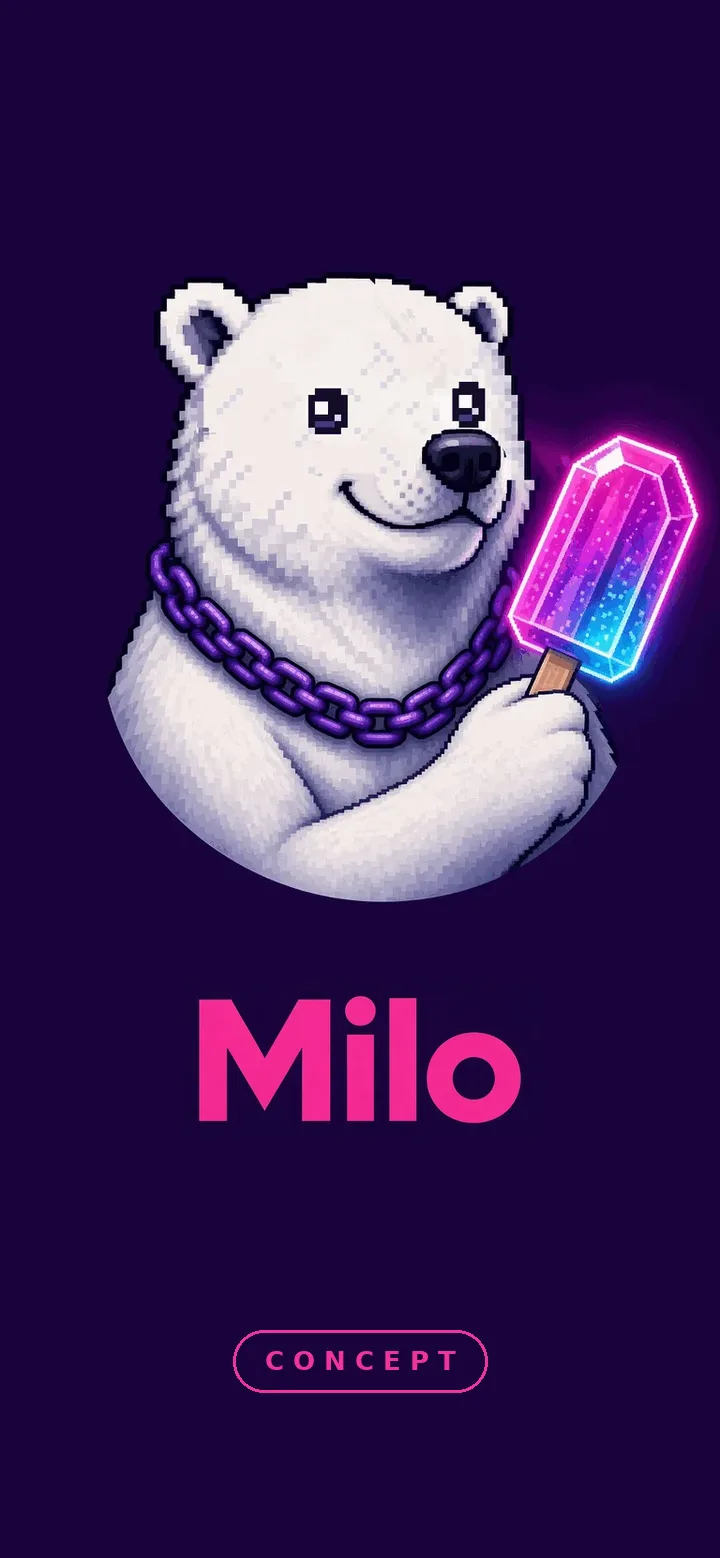
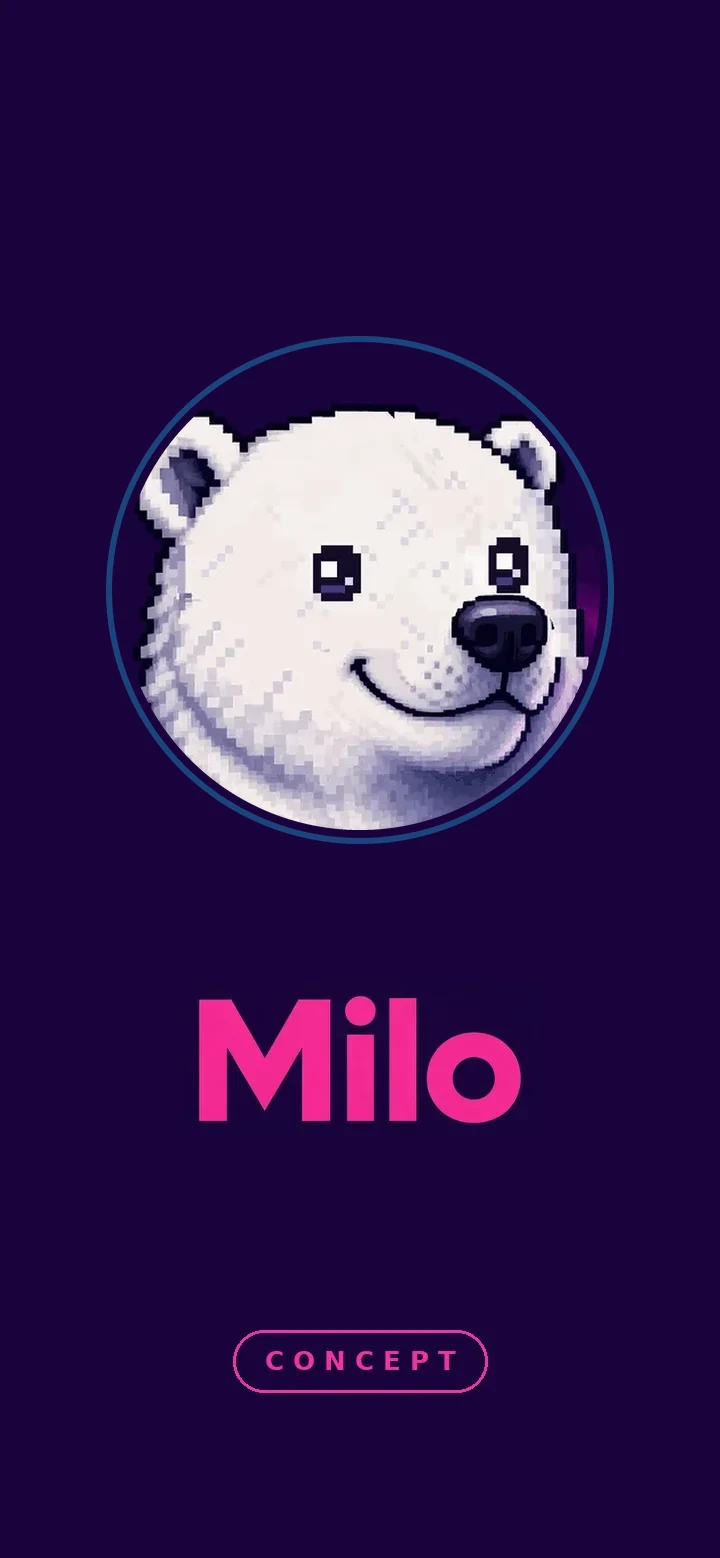
Lift Concept Lab: method strip, card details, chain-free Milo
Claude-Session: https://claude.ai/code/session_01NYMEjb3suz5Xdw8cPuvfsd

Changed region(s): [[0.1222, 0.154, 1.0, 0.5854]]

diff --git a/work/concepts.html b/work/concepts.html
@@ -21,7 +21,8 @@
 <link href="https://fonts.googleapis.com/css2?family=Bricolage+Grotesque:opsz,wght@12..96,500..800&family=Instrument+Sans:wght@400;500;600&display=swap" rel="stylesheet">
 <!-- Hand-built page (not generated by work/_build.py), 8 Nov 2026. Studio palette and type from the homepage.
      Concept Lab groups the three concept designs (EZRA, Milo, R&K). Each card opens that concept's own page.
-     Card images: assets/studio/concepts/*.webp, built from each brand's own logo files on its splash colours. -->
+     Card images: assets/studio/concepts/*.webp, built from each brand's own logo files on its splash colours.
+     milo.webp re-composed 8 Nov 2026 with the chain-free, shades-free face crop (Milo has no chain and no sunglasses). -->
 <style>
 *,*::before,*::after{box-sizing:border-box;margin:0;padding:0}
 :root{--bg:#000;--ink:#f6f4ff;--ink-2:rgba(236,232,255,.76);--ink-3:rgba(236,232,255,.56);
@@ -51,7 +52,23 @@ h1,h2,h3{font-family:var(--font-d);font-weight:800;letter-spacing:-.04em;line-he
 .card{display:flex;flex-direction:column;background:var(--panel);border:1px solid var(--line);border-radius:18px;overflow:hidden;transition:transform .35s var(--ease),border-color .25s,box-shadow .35s}
 .card:hover,.card:focus-visible{transform:translateY(-4px);border-color:rgba(176,124,255,.5);box-shadow:0 22px 50px -24px var(--glow)}
 .shot{position:relative;aspect-ratio:4/5;overflow:hidden;background:var(--sp)}
-.shot img{position:absolute;left:0;width:100%;height:auto;top:50%;transform:translateY(-44.9%)}
+.shot img{position:absolute;left:0;width:100%;height:auto;top:50%;transform:translateY(-44.9%);transition:transform .9s var(--ease)}
+.card:hover .shot img{transform:translateY(-44.9%) scale(1.04)}
+.shot::after{content:"";position:absolute;inset:0;background:linear-gradient(180deg,transparent 70%,rgba(0,0,0,.35));pointer-events:none}
+.inside{display:flex;flex-wrap:wrap;gap:6px;margin-top:2px}
+.inside span{font:500 12.5px var(--font-b);color:var(--ink-3);border:1px solid var(--line);border-radius:6px;padding:3px 8px}
+.how{display:grid;grid-template-columns:repeat(3,minmax(0,1fr));gap:1px;margin-top:40px;border:1px solid var(--line);border-radius:14px;overflow:hidden;background:var(--line)}
+.how div{background:#08050f;padding:18px 20px}
+.how b{display:block;font:700 15px var(--font-b);color:var(--ink)}
+.how b i{font-style:normal;color:var(--violet-2);margin-right:8px}
+.how span{font-size:14.5px;color:var(--ink-3)}
+@media(max-width:760px){.how{grid-template-columns:1fr}}
+.btns{display:flex;flex-wrap:wrap;gap:12px;justify-content:center}
+.btn.o{background:transparent;color:var(--ink);box-shadow:inset 0 0 0 1.5px rgba(176,124,255,.5)}
+.btn.o:hover{background:rgba(176,124,255,.12)}
+.js .rv{opacity:0;transform:translateY(18px);transition:opacity .8s var(--ease),transform .8s var(--ease)}
+.js .rv.on{opacity:1;transform:none}
+.js .grid .rv:nth-child(2){transition-delay:.1s}.js .grid .rv:nth-child(3){transition-delay:.2s}
 .body{display:flex;flex-direction:column;gap:10px;padding:22px 22px 24px;flex:1}
 .tag{align-self:flex-start;font:600 12px var(--font-b);letter-spacing:.12em;text-transform:uppercase;color:var(--violet-3);border:1px solid rgba(176,124,255,.4);border-radius:99px;padding:4px 12px}
 .card h2{font-size:30px}
@@ -67,9 +84,10 @@ footer{border-top:1px solid var(--line);padding:28px 0 40px;color:var(--ink-3);f
 footer .wrap{display:flex;justify-content:space-between;gap:16px;flex-wrap:wrap;align-items:center}
 footer img{height:20px;width:auto}
 footer a:hover{color:#fff}
-@media (prefers-reduced-motion:reduce){.card,.btn{transition:none}.card:hover{transform:none}}
+@media (prefers-reduced-motion:reduce){.card,.btn,.shot img{transition:none}.card:hover{transform:none}.card:hover .shot img{transform:translateY(-44.9%)}.js .rv{opacity:1;transform:none;transition:none}}
 </style>
 <link rel="stylesheet" href="../assets/audio/snd.css?v=sc1">
+<script>document.documentElement.classList.add('js')</script>
 </head>
 <body>
 <nav class="snav" aria-label="Studio"><div class="wrap">
@@ -82,21 +100,26 @@ footer a:hover{color:#fff}
     <p class="kick">Concept Lab</p>
     <h1>Three ideas, each with its own brand.</h1>
     <p class="lede">Concept designs from the studio: the brand, the character and the idea behind a product that is not built yet. Each one opens its own page.</p>
+    <div class="how" aria-label="How each concept is made">
+      <div><b><i>01</i>Name the problem</b><span>One real everyday friction, said plainly.</span></div>
+      <div><b><i>02</i>Build the brand</b><span>Mark, palette, type and voice, made for that audience.</span></div>
+      <div><b><i>03</i>Show it on screens</b><span>Concept screens and one signature moment you can try.</span></div>
+    </div>
   </div></header>
 
   <div class="wrap">
     <div class="grid">
-      <a class="card" href="ezra.html" style="--sp:#0B2545;--glow:rgba(29,91,216,.7)">
+      <a class="card rv" href="ezra.html" style="--sp:#0B2545;--glow:rgba(29,91,216,.7)">
         <div class="shot"><img src="../assets/studio/concepts/ezra.webp" alt="EZRA logo on its blue brand colours" width="720" height="1558" loading="lazy"></div>
-        <div class="body"><span class="tag">Concept</span><h2>EZRA</h2><p>A calm, bilingual assistant that does everyday tasks for older adults.</p><span class="go">Open EZRA &rsaquo;</span></div>
+        <div class="body"><span class="tag">Concept</span><h2>EZRA</h2><p>A calm, bilingual assistant that does everyday tasks for older adults.</p><div class="inside"><span>Brand v5</span><span>Hebrew + English</span><span>Try: &ldquo;Do it for me&rdquo;</span></div><span class="go">Open EZRA &rsaquo;</span></div>
       </a>
-      <a class="card" href="milo.html" style="--sp:#1a023c;--glow:rgba(240,53,154,.6)">
-        <div class="shot"><img src="../assets/studio/concepts/milo.webp" alt="Milo the polar bear with the Milo wordmark" width="720" height="1558" loading="lazy"></div>
-        <div class="body"><span class="tag">Concept</span><h2>Milo</h2><p>A kids&rsquo; app (6&ndash;12): check in, breathe together with a cool polar bear, then take one small brave move.</p><span class="go">Open Milo &rsaquo;</span></div>
+      <a class="card rv" href="milo.html" style="--sp:#1a023c;--glow:rgba(240,53,154,.6)">
+        <div class="shot"><img src="../assets/studio/concepts/milo.webp" alt="Milo the polar bear's calm face above the Milo wordmark" width="720" height="1558" loading="lazy"></div>
+        <div class="body"><span class="tag">Concept</span><h2>Milo</h2><p>A kids&rsquo; app (6&ndash;12): check in, breathe together with a gentle polar bear, then take one small brave move.</p><div class="inside"><span>Brand world</span><span>Grown-up help</span><span>Try: breathe with Milo</span></div><span class="go">Open Milo &rsaquo;</span></div>
       </a>
-      <a class="card" href="rk.html" style="--sp:#040B2A;--glow:rgba(31,91,255,.7)">
+      <a class="card rv" href="rk.html" style="--sp:#040B2A;--glow:rgba(31,91,255,.7)">
         <div class="shot"><img src="../assets/studio/concepts/rk.webp" alt="Rookie &amp; King logo" width="720" height="1558" loading="lazy"></div>
-        <div class="body"><span class="tag">Concept</span><h2>Rookie &amp; King</h2><p>Professional networking played as a game: one game of chess instead of a cold message.</p><span class="go">Open R&amp;K &rsaquo;</span></div>
+        <div class="body"><span class="tag">Concept</span><h2>Rookie &amp; King</h2><p>Professional networking played as a game: one game of chess instead of a cold message.</p><div class="inside"><span>Brand v7</span><span>Event lounge</span><span>Try: play a move</span></div><span class="go">Open R&amp;K &rsaquo;</span></div>
       </a>
     </div>
   </div>
@@ -104,12 +127,14 @@ footer a:hover{color:#fff}
   <section class="cta"><div class="wrap">
     <h2>Got an idea that needs a brand?</h2>
     <p>Concept, brand and product design, from one senior designer.</p>
-    <a class="btn" href="mailto:dave@3shamrocks.com">Let's talk</a>
+    <div class="btns"><a class="btn" href="mailto:dave@3shamrocks.com?subject=New%20project">Let&rsquo;s talk</a><a class="btn o" href="../work-with-me.html">Find your fit &middot; 60 sec</a></div>
   </div></section>
 </main>
 
-<p class="fit-line" style="margin:0;padding:22px 16px;text-align:center;font-size:14px;opacity:.78"><a href="../work-with-me.html" style="color:inherit;text-decoration:underline;text-underline-offset:4px">Find your fit · 60 sec</a></p>
 <footer><div class="wrap"><a href="../" aria-label="3Shamrocks Studio, home"><img src="../assets/studio/3shamrocks.png" alt="3Shamrocks Studio" width="905" height="133" loading="lazy"></a><span>&copy; 2026 3Shamrocks Studio &middot; Dave Markovich</span><a href="mailto:dave@3shamrocks.com">dave@3shamrocks.com</a></div></footer>
+<script>(function(){var els=[].slice.call(document.querySelectorAll('.rv'));
+if(!('IntersectionObserver' in window)||matchMedia('(prefers-reduced-motion: reduce)').matches){els.forEach(function(e){e.classList.add('on')});return}
+var io=new IntersectionObserver(function(es){es.forEach(function(e){if(e.isIntersecting){e.target.classList.add('on');io.unobserve(e.target)}})},{rootMargin:'0px 0px -6% 0px'});els.forEach(function(e){io.observe(e)})})();</script>
 <!-- 3Shamrocks Studio sound: off by default, header toggle; this page's own loop from the studio theme family -->
 <script src="../assets/audio/s3-score.js?v=sc1" defer></script>
 <script>addEventListener('DOMContentLoaded',function(){if(!window.S3Score)return;
